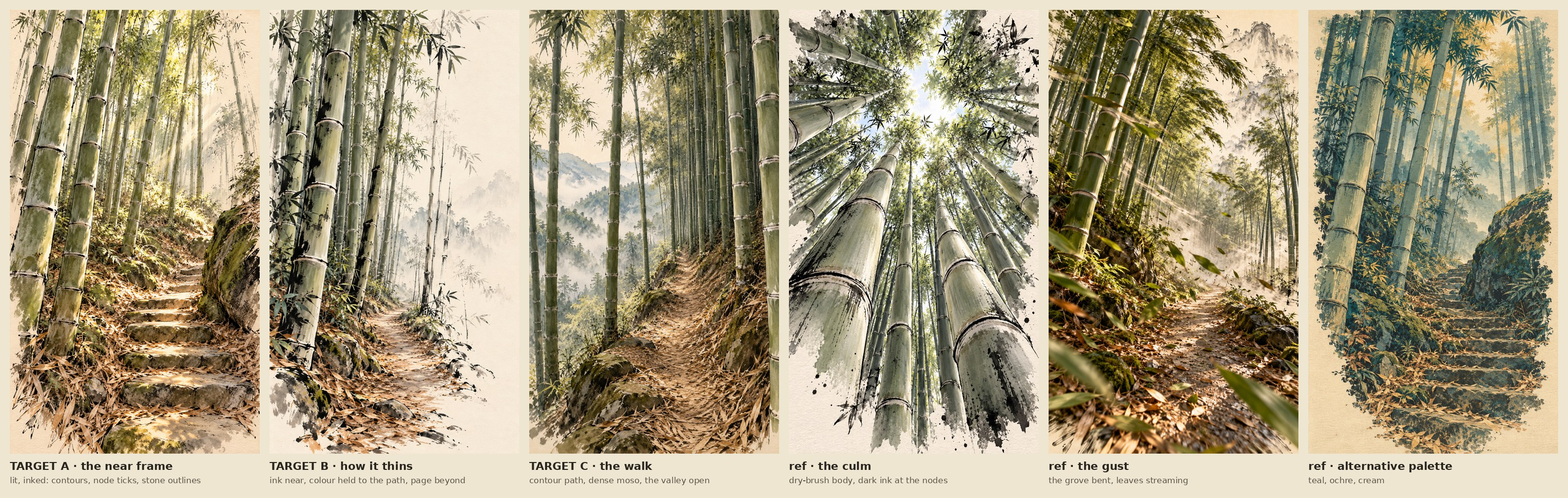
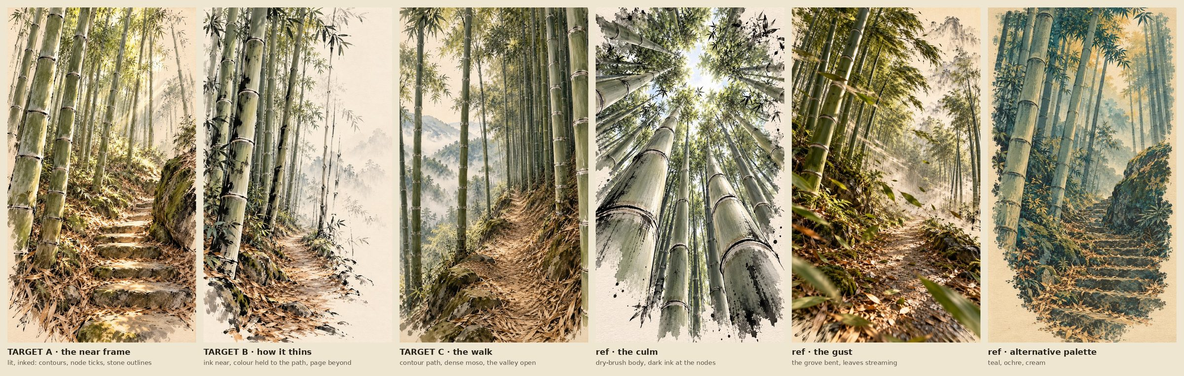
lab: bamboo reference images as JPEGs (small enough for the cell)
Claude-Session: https://claude.ai/code/session_01D2Nx3PayKJtFYoab5A57H3

diff --git a/cells/lab/devtools/bamboo/explore.md b/cells/lab/devtools/bamboo/explore.md
@@ -194,7 +194,7 @@ On the winning style, test what the marks should do:
 
 ## Round 1: what came back
 
-![Round 1 sheet](round1.png)
+![Round 1 sheet](round1.jpg)
 
 The generator answered with **one composed sheet**, not separate images. That flattened everything toward one house
 style: 2, 3 and 4 are nearly the same picture, and the moments row and the light row repeat it. So the sheet shows us
@@ -274,7 +274,7 @@ That picture becomes the target we judge the renders against, like the coast's b
 
 | a. ledge, sun over a sea of cloud | b. after rain, stream | c. ledge, mist valley | d. the grove |
 |---|---|---|---|
-| ![](r2-a-ledge-sun.png) | ![](r2-b-rain-stream.png) | ![](r2-c-ledge-mist.png) | ![](r2-d-grove.png) |
+| ![](r2-a-ledge-sun.jpg) | ![](r2-b-rain-stream.jpg) | ![](r2-c-ledge-mist.jpg) | ![](r2-d-grove.jpg) |
 
 A big step. All four are off-centre, wild, mountain, and end in paper. **c is the provisional target**, with **d as the
 reference for the grove itself**.
@@ -340,29 +340,29 @@ test for marks laid in the world.
 
 The ink came inside the picture. Three of the eight are targets, and three more are references for one thing each.
 
-- **Target A, the near frame** (`r3-8-lit-stairs.png`). Real light, with ink drawn on it:
+- **Target A, the near frame** (`r3-8-lit-stairs.jpg`). Real light, with ink drawn on it:
   - culm contours, a dark tick at each node;
   - stone steps and the boulder outlined;
   - litter as warm strokes;
   - paper coming in at the top corners.
 
   This is Labyrinth's register exactly, a lit picture plus marks, and the frame most of the walk should look like.
-- **Target B, how it thins** (`r3-5-ink-path.png`). The near culms are fully drawn: dry-brush body, black at the nodes,
+- **Target B, how it thins** (`r3-5-ink-path.jpg`). The near culms are fully drawn: dry-brush body, black at the nodes,
   broken contours. The colour is held to the path's litter. The far side goes to a few verticals, then pale ridges, then
   the page. That's our *reach*, and the thinning has to look like this, not like fog.
-- **Target C, the walk** (`r3-6-contour-valley.png`). The contour path, dense moso climbing the bank on one side, and the
+- **Target C, the walk** (`r3-6-contour-valley.jpg`). The contour path, dense moso climbing the bank on one side, and the
   valley opening between sparser culms on the other. This density and this rhythm of verticals is the grove we build. The
   ink is lighter here: the node rings are white bands rather than ticks.
-- **Ref, the culm** (`r3-4-looking-up.png`). How one culm is drawn up close: the dry-brush streak down its body, darkest
+- **Ref, the culm** (`r3-4-looking-up.jpg`). How one culm is drawn up close: the dry-brush streak down its body, darkest
   just under a node, a crisp curved ring, ink pooling at the foot.
-- **Ref, the gust** (`r3-3-gust.png`). The upper grove bent over, leaves streaming across the light, the near culms still.
-- **Ref, an alternative palette** (`r3-2-teal-stairs.png`). Teal, ochre and cream, flat-layered. Kept for a weather or
+- **Ref, the gust** (`r3-3-gust.jpg`). The upper grove bent over, leaves streaming across the light, the near culms still.
+- **Ref, an alternative palette** (`r3-2-teal-stairs.jpg`). Teal, ochre and cream, flat-layered. Kept for a weather or
   time preset, not the default.
 
 Left aside:
-- `r3-1-rain-stairs.png`: busy, and the carved calligraphy is the generator's invention. Carved characters on old culms
+- `r3-1-rain-stairs.jpg`: busy, and the carved calligraphy is the generator's invention. Carved characters on old culms
   are real, though; a later detail.
-- `r3-7-ledge-roots.png`: round 2's photograph with a brushed border again.
+- `r3-7-ledge-roots.jpg`: round 2's photograph with a brushed border again.
 
 ### The drawing, read off the board
 
